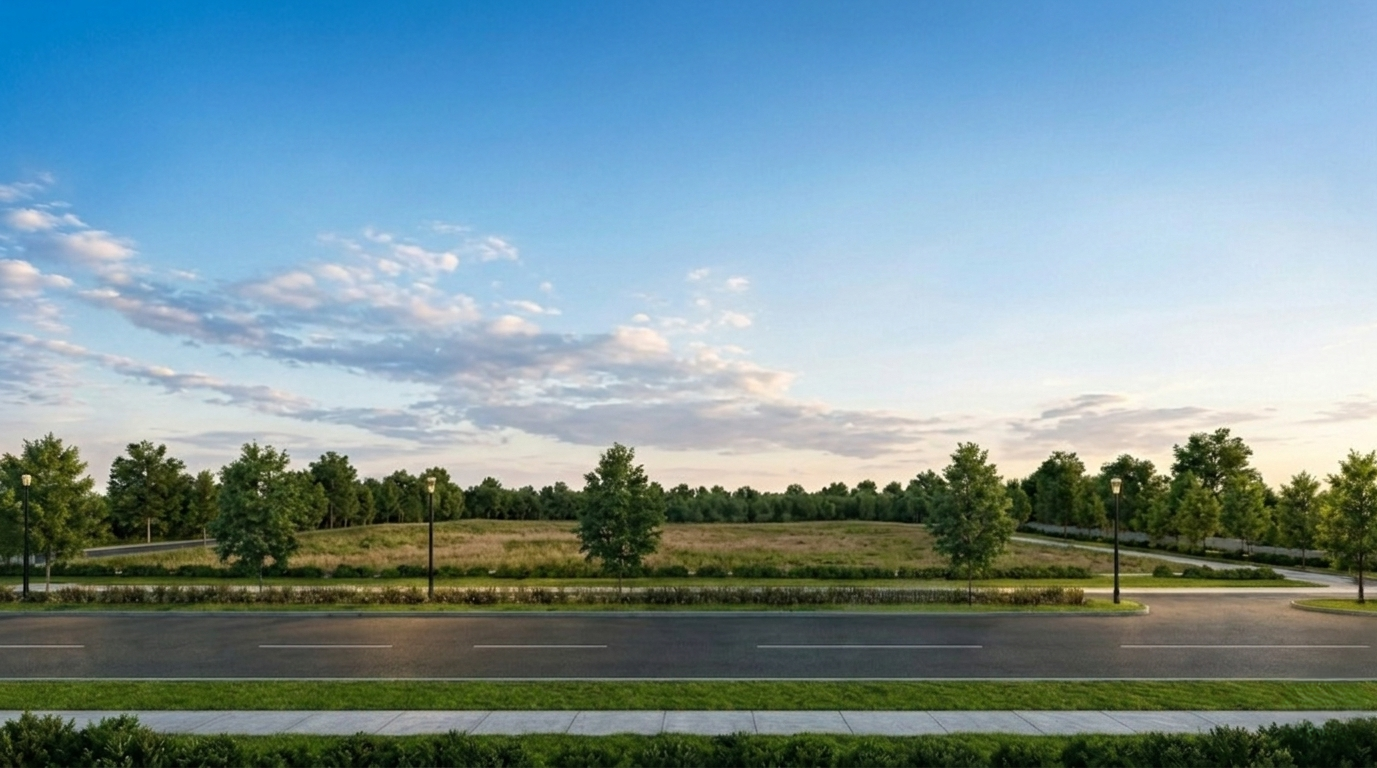
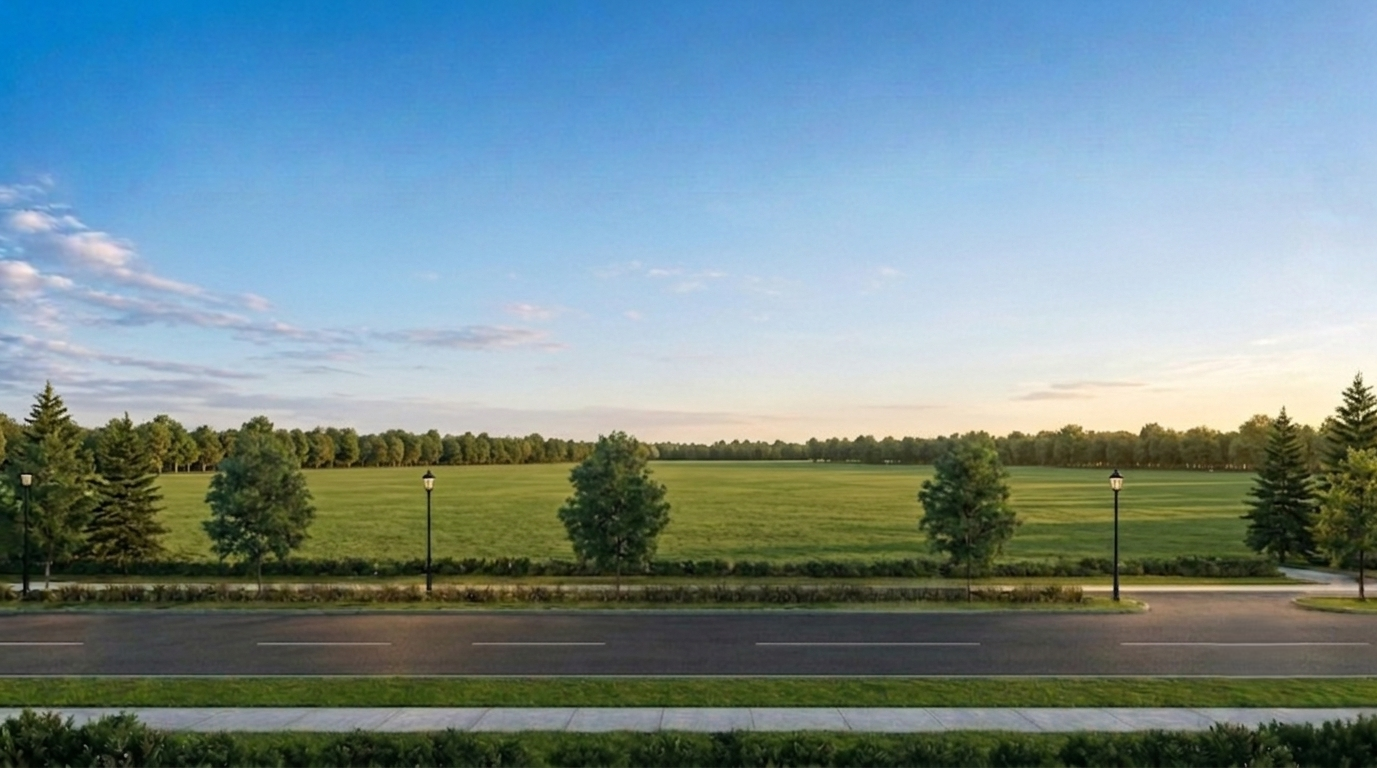
Hero Image truck drive

diff --git a/components/ScrollScrubHero.tsx b/components/ScrollScrubHero.tsx
@@ -3,8 +3,10 @@
 import {
   compositeHorizontalReveal,
   createOffscreenLayers,
+  getCoverLayout,
   mapScrollToTransition,
   resizeOffscreenLayers,
+  type CoverLayout,
   type OffscreenLayers,
 } from "@/lib/scroll-composite";
 import { useCallback, useEffect, useRef, useState } from "react";
@@ -27,6 +29,8 @@ const FEATHER_WIDTH_RATIO = 0.055;
 /** Subtle highlight at wipe edge (separate from the mask). */
 const ENABLE_EDGE_GLOW = true;
 const EDGE_GLOW_OPACITY = 0.06;
+/** Push truck down so the bottom clips off-screen. */
+const TRUCK_DROP = "clamp(56px, 11vh, 148px)";
 
 function stepSrc(index: number) {
   return STEP_SRC(index + 1);
@@ -71,6 +75,29 @@ export default function ScrollScrubHero() {
   const layersRef = useRef<OffscreenLayers | null>(null);
   const lastDrawKeyRef = useRef("");
   const rafRef = useRef<number | null>(null);
+
+  const truckLayerRef = useRef<HTMLDivElement>(null);
+  const truckRef = useRef<HTMLImageElement>(null);
+  const [truckLayout, setTruckLayout] = useState<CoverLayout>({
+    drawWidth: 0,
+    drawHeight: 0,
+    top: 0,
+    travel: 0,
+  });
+
+  const measureTruckLayout = useCallback(() => {
+    const layer = truckLayerRef.current;
+    const img = truckRef.current;
+    if (!layer || !img?.naturalWidth) return;
+
+    const layout = getCoverLayout(
+      img.naturalWidth,
+      img.naturalHeight,
+      layer.clientWidth,
+      layer.clientHeight
+    );
+    setTruckLayout(layout);
+  }, []);
 
   const [ready, setReady] = useState(false);
   const [reducedMotion, setReducedMotion] = useState(false);
@@ -216,6 +243,7 @@ export default function ScrollScrubHero() {
 
     const onResize = () => {
       lastDrawKeyRef.current = "";
+      measureTruckLayout();
       updateFromScroll();
     };
 
@@ -227,7 +255,16 @@ export default function ScrollScrubHero() {
       window.removeEventListener("resize", onResize);
       if (rafRef.current != null) cancelAnimationFrame(rafRef.current);
     };
-  }, [ready, updateFromScroll, drawScene]);
+  }, [ready, updateFromScroll, drawScene, measureTruckLayout]);
+
+  useEffect(() => {
+    measureTruckLayout();
+    const layer = truckLayerRef.current;
+    if (!layer || typeof ResizeObserver === "undefined") return;
+    const ro = new ResizeObserver(measureTruckLayout);
+    ro.observe(layer);
+    return () => ro.disconnect();
+  }, [measureTruckLayout]);
 
   const phaseProgress = phaseScrollProgress(progress);
   const phaseStageVisible = phaseProgress > 0;
@@ -235,6 +272,11 @@ export default function ScrollScrubHero() {
   const sectionStyle = reducedMotion
     ? undefined
     : ({ height: `${SCROLL_HEIGHT_VH}vh` } as React.CSSProperties);
+
+  const truckViewportW =
+    truckLayerRef.current?.clientWidth || truckLayout.drawWidth || 1;
+  /** Enter off-screen left → exit off-screen right across full hero scroll. */
+  const truckSlidePx = truckViewportW * (2 * progress - 1);
 
   return (
     <section
@@ -306,10 +348,20 @@ export default function ScrollScrubHero() {
         </div>
 
         {!reducedMotion && (
-          <div className="hero-scrub-progress" aria-hidden>
-            <div
-              className="hero-scrub-progress-fill"
-              style={{ transform: `scaleX(${progress})` }}
+          <div ref={truckLayerRef} className="hero-scroll-truck-layer" aria-hidden>
+            <img
+              ref={truckRef}
+              src="/truck.png"
+              alt=""
+              className="hero-scroll-truck"
+              draggable={false}
+              onLoad={measureTruckLayout}
+              style={{
+                width: truckLayout.drawWidth || undefined,
+                height: truckLayout.drawHeight || undefined,
+                top: truckLayout.top,
+                transform: `translate(${truckSlidePx}px, ${TRUCK_DROP})`,
+              }}
             />
           </div>
         )}

diff --git a/lib/scroll-composite/compositor.ts b/lib/scroll-composite/compositor.ts
@@ -36,6 +36,49 @@ export function drawCover(
   ctx.drawImage(img, sx, sy, sw, sh, 0, 0, cw, ch);
 }
 
+export type CoverLayout = {
+  drawWidth: number;
+  drawHeight: number;
+  top: number;
+  /** Horizontal pan range for left-aligned cover (px). */
+  travel: number;
+};
+
+/** Match drawCover sizing for DOM overlays (left-aligned for pan). */
+export function getCoverLayout(
+  naturalWidth: number,
+  naturalHeight: number,
+  cw: number,
+  ch: number
+): CoverLayout {
+  if (naturalWidth <= 0 || naturalHeight <= 0 || cw <= 0 || ch <= 0) {
+    return { drawWidth: cw, drawHeight: ch, top: 0, travel: 0 };
+  }
+
+  const ir = naturalWidth / naturalHeight;
+  const cr = cw / ch;
+
+  if (ir > cr) {
+    const drawHeight = ch;
+    const drawWidth = ch * ir;
+    return {
+      drawWidth,
+      drawHeight,
+      top: 0,
+      travel: Math.max(0, drawWidth - cw),
+    };
+  }
+
+  const drawWidth = cw;
+  const drawHeight = cw / ir;
+  return {
+    drawWidth,
+    drawHeight,
+    top: (ch - drawHeight) / 2,
+    travel: 0,
+  };
+}
+
 export type OffscreenLayers = {
   layer: HTMLCanvasElement;
   layerCtx: CanvasRenderingContext2D;

diff --git a/app/globals.css b/app/globals.css
@@ -300,6 +300,21 @@ nav.site-nav.nav-over-hero .nav-hamburger span { background: #fff; }
   }
 }
 
+.hero-scroll-truck-layer {
+  position: absolute;
+  inset: 0;
+  z-index: 10001;
+  overflow: hidden;
+  pointer-events: none;
+}
+
+.hero-scroll-truck {
+  position: absolute;
+  left: 0;
+  max-width: none;
+  will-change: transform;
+}
+
 .hero-scrub-progress {
   position: absolute;
   bottom: 2.5rem;

diff --git a/lib/scroll-composite/index.ts b/lib/scroll-composite/index.ts
@@ -4,8 +4,10 @@ export {
   compositeHorizontalReveal,
   createOffscreenLayers,
   drawCover,
+  getCoverLayout,
   resizeOffscreenLayers,
   type CompositeOptions,
+  type CoverLayout,
   type OffscreenLayers,
 } from "./compositor";
 export { mapScrollToTransition, type ScrollTransition } from "./scroll-map";